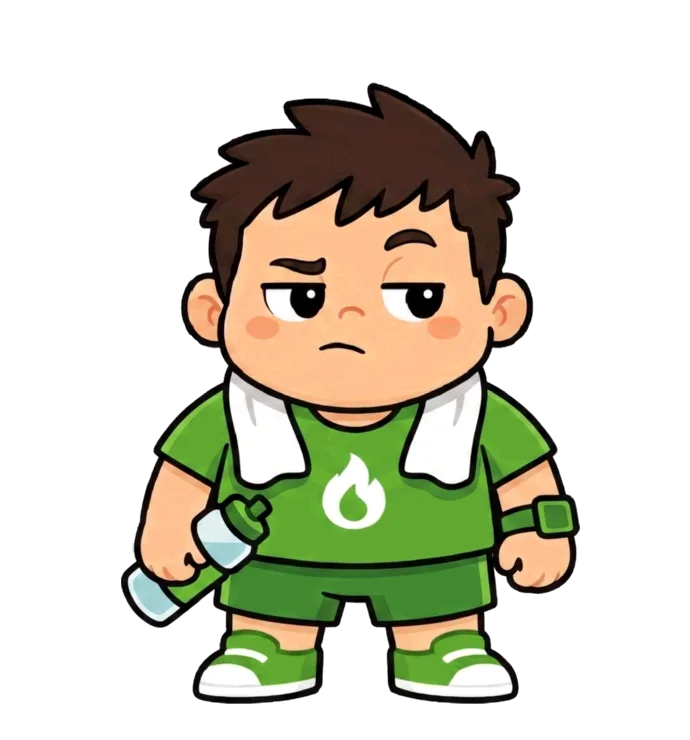
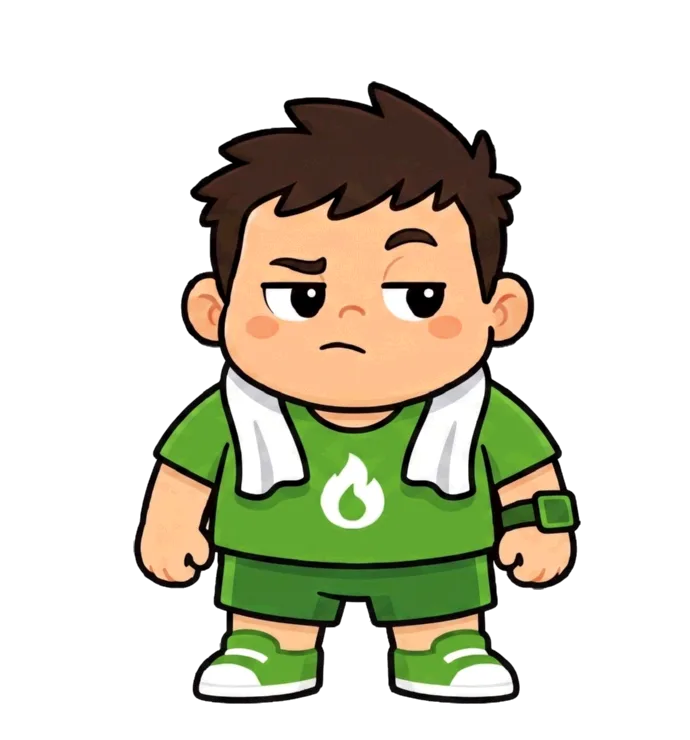
Entra a arte de Pilates, corrige a de Cardio e automatiza o WebP
Das 4 artes novas, 2 entraram e 2 voltaram.

Cardio: refeita. A anterior tinha duas garrafinhas, uma em cada mao, com o
objeto atravessando o punho. Agora as maos estao vazias e o visual e
camiseta, toalha no pescoco e tenis. A garrafinha que a IA desenhou no
chao e apagada pelo pipeline (objeto solto nao sobrevive), entao a
descricao para leitor de tela deixou de prometer uma garrafinha que nao
aparece.

Pilates: visual novo. Antes ele dividia `bemestar` com o yoga e aparecia
com tapete de yoga debaixo do braco. O anel de pilates sobreviveu ao
pipeline porque encosta na mao -- vira um componente so com o corpo.

Jiu-jitsu e Remo ficaram de fora desta leva e precisam de nova geracao;
os prompts corrigidos estao na secao 2c do MASCOTE-PROMPT.md.

- jiu-jitsu: as luvas de boxe sumiram como pedido, mas o personagem veio
  desproporcional. Medindo as 21 artes na escala padrao, o corpo abaixo
  dos olhos dela da 487px contra no maximo 417px de todas as outras, e os
  pes saem cortados. Encolher so essa arte quebraria a ancoragem por
  olhos, que existe para o mascote nao mudar de tamanho ao trocar de
  roupa.
- remo: veio exatamente como pedido, alca no chao longe das maos -- e por
  isso mesmo o pipeline apagou a alca, junto com a corrente. Sem ela
  sobra um macaquinho vermelho, que le como luta olimpica. Mesmo motivo
  pelo qual as bolas de basquete, volei e futebol tambem nao aparecem nas
  artes atuais.

tools/gerar-webp.cjs: a conversao para WebP era um passo manual no
[…]

diff --git a/mascote.js b/mascote.js
@@ -46,6 +46,9 @@ export const FANTASIAS = {
 // Para adicionar: uma linha aqui, uma em DESCRICOES_VISUAL, e os arquivos
 // -normal/-desconfiado/-blink em img/. Os testes acusam se faltar qualquer um.
 export const FANTASIAS_POR_EXERCICIO = {
+  // Pilates saiu do visual de Bem-estar porque aquele é um tapete de yoga
+  // debaixo do braço — quem faz pilates percebe que está vestido de outra coisa.
+  Pilates: 'pilates',
   'Spinning (bike indoor)': 'spinning',
   'Pular corda (moderado)': 'pularcorda',
   'Boxe (treino/sparring)': 'boxe',
@@ -124,8 +127,9 @@ export const DESCRICOES_VISUAL = {
   escalada: 'Caloricio de cadeirinha de escalada com saquinho de magnésio',
   lutas: 'Caloricio de kimono com faixa preta e luvas de boxe',
   esportes: 'Caloricio de uniforme de futebol com uma bola ao lado do pé',
-  cardio: 'Caloricio com toalha no pescoço e garrafinha de água',
+  cardio: 'Caloricio de camiseta esportiva com uma toalha no pescoço',
   bemestar: 'Caloricio com um tapete de yoga enrolado sob o braço',
+  pilates: 'Caloricio de roupa justa e meias antiderrapantes, com um anel de pilates na mão',
   gpt: 'Caloricio de faixa na cabeça e moletom, pronto pro treino',
   neutro: 'Caloricio te esperando começar',
 };

diff --git a/MASCOTE-PROMPT.md b/MASCOTE-PROMPT.md
@@ -189,6 +189,80 @@ separated from his body and fully inside the frame.
 
 ---
 
+## 2c. Resultado da rodada — 2 entraram, 2 precisam voltar
+
+**Cardio e Pilates entraram** e já estão no ar. **Jiu-jitsu e Remo voltaram**,
+cada um por um motivo diferente — e nenhum dos dois é culpa do desenho em si,
+que veio certo. Os prompts corrigidos estão abaixo.
+
+### Jiu-jitsu — precisa voltar: personagem fora de proporção
+
+As luvas de boxe sumiram, as mãos saíram livres, o kimono e a faixa ficaram
+certos. O problema é outro: **o personagem foi desenhado mais comprido**. O
+pipeline ancora pela distância entre os olhos justamente para o mascote ter
+sempre o mesmo tamanho em todas as fantasias, e nessa arte o corpo abaixo dos
+olhos mede 487px na escala padrão, contra no máximo 417px de todas as outras 20
+artes. Não cabe no canvas: os pés saem cortados nos joelhos.
+
+Encolher só essa arte para caber resolveria o corte, mas aí o mascote mudaria
+de tamanho ao escolher jiu-jitsu, que é exatamente o que a ancoragem por olhos
+existe para impedir. Por isso o certo é regerar.
+
+```
+Same character, same rules as before. New outfit: Brazilian jiu-jitsu.
+
+PROPORTIONS ARE CRITICAL — the last attempt drew the body too long. Keep the
+exact chibi proportions of the attached reference image: the head must be very
+large relative to the body, roughly one third of the total height, with short
+stubby legs. Do not lengthen the legs or the torso to fit the gi. Compare with
+the reference before finishing: total height should be about 3 head-heights.
+
+NO boxing gloves, NO MMA gloves, NO hand wraps. Both hands completely bare with
+individual fingers visible, empty and relaxed at his sides.
+
+Outfit worn on the body: a thick white jiu-jitsu gi jacket with a wide lapel
+crossed over the chest, closed by a black belt tied in a knot at the waist,
+matching white gi pants that end above the ankles, and bare feet.
+```
+
+### Remo — precisa voltar: a alça no chão é apagada pelo pipeline
+
+O desenho veio exatamente como pedi: alça preta com corrente, no chão, longe
+das mãos. O problema é que **objeto solto no chão não sobrevive ao pipeline**.
+Para separar os dois personagens da mesma imagem, o processamento descarta
+fragmentos que vazaram do vizinho, e faz isso apagando tudo que não está ligado
+ao corpo. A alça é um componente separado, então ela some — e sem a alça sobra
+um macaquinho vermelho, que lê como luta olímpica, não como remo.
+
+É o mesmo motivo pelo qual a bola do basquete, a do vôlei e a do futebol também
+não aparecem nas artes atuais, apesar de estarem nos originais.
+
+A saída é a que já funciona na raquete de tênis e na prancha de surf: o objeto
+**encosta no personagem**, virando uma peça só com ele.
+
+```
+Same character, same rules as before. New outfit: indoor rowing (ergometer).
+
+He must NOT hold the rowing handle in his hands — both hands stay empty and
+relaxed at his sides. A straight bar drawn across two closed fists is the
+mistake to avoid.
+
+CRITICAL: the equipment must physically TOUCH his body, not float separately on
+the ground. An object that does not touch him gets removed in processing.
+
+Outfit worn on the body: a sleeveless rowing singlet (a snug one-piece athletic
+top) with the flame logo, short compression shorts, and a sweatband on one
+wrist.
+
+Equipment: the black handle of a rowing machine standing upright on the ground
+and LEANING AGAINST HIS LEG, touching his calf, with a short length of chain
+resting on the ground beside his foot and also touching his shoe. The handle
+and the chain must overlap his body silhouette so they read as one piece with
+him.
+```
+
+---
+
 ## 3. Prompt por categoria
 
 Cada bloco abaixo é uma mensagem separada. Sempre comece com
@@ -313,7 +387,7 @@ e 12 novos.
 | `natacao` | natação leve, moderada e vigorosa |
 | `musculacao` | musculação leve e moderada/vigorosa |
 | `esportes` | futebol recreativo e competitivo |
-| `cardio` | elíptico (o remo saiu para arte própria — ver seção 2b) |
+| `cardio` | elíptico e remo (a arte própria do remo não vingou — ver 2c) |
 | `lutas` | jiu-jitsu |
 | `funcional` | funcional e crossfit |
 | `bemestar` | yoga |

diff --git a/README.md b/README.md
@@ -100,10 +100,19 @@ mesma origem gera o mesmo arquivo.
 O site serve WebP (~70% menor que o PNG, visualmente idêntico nesta arte
 chapada) e mantém o PNG como fallback; `app.js` detecta o suporte e escolhe.
 
-Não existe encoder WebP em Node puro, então a conversão passa pelo canvas do
-navegador. Depois de gerar arte nova, rode o servidor local com o endpoint de
-gravação e converta pelo navegador — os testes acusam se algum arquivo existir
-só num dos dois formatos.
+Não existe encoder WebP em Node puro, então a conversão passa pelo canvas de um
+navegador — mas isso não é mais um passo manual: o Chromium do Playwright, que
+já está instalado para os testes de DOM, faz sozinho.
+
+```bash
+node tools/gerar-webp.cjs cardio pilates   # os 3 estados de cada
+node tools/gerar-webp.cjs --todos          # tudo que estiver em img/
+```
+
+É o mesmo encoder e a mesma qualidade (0.82) do passo manual antigo: rodar o
+script sobre uma arte que não mudou devolve um arquivo byte a byte idêntico ao
+que já está no repositório. Os testes acusam se algum arquivo existir só num dos
+dois formatos.
 
 ### Quadro de piscada
 
